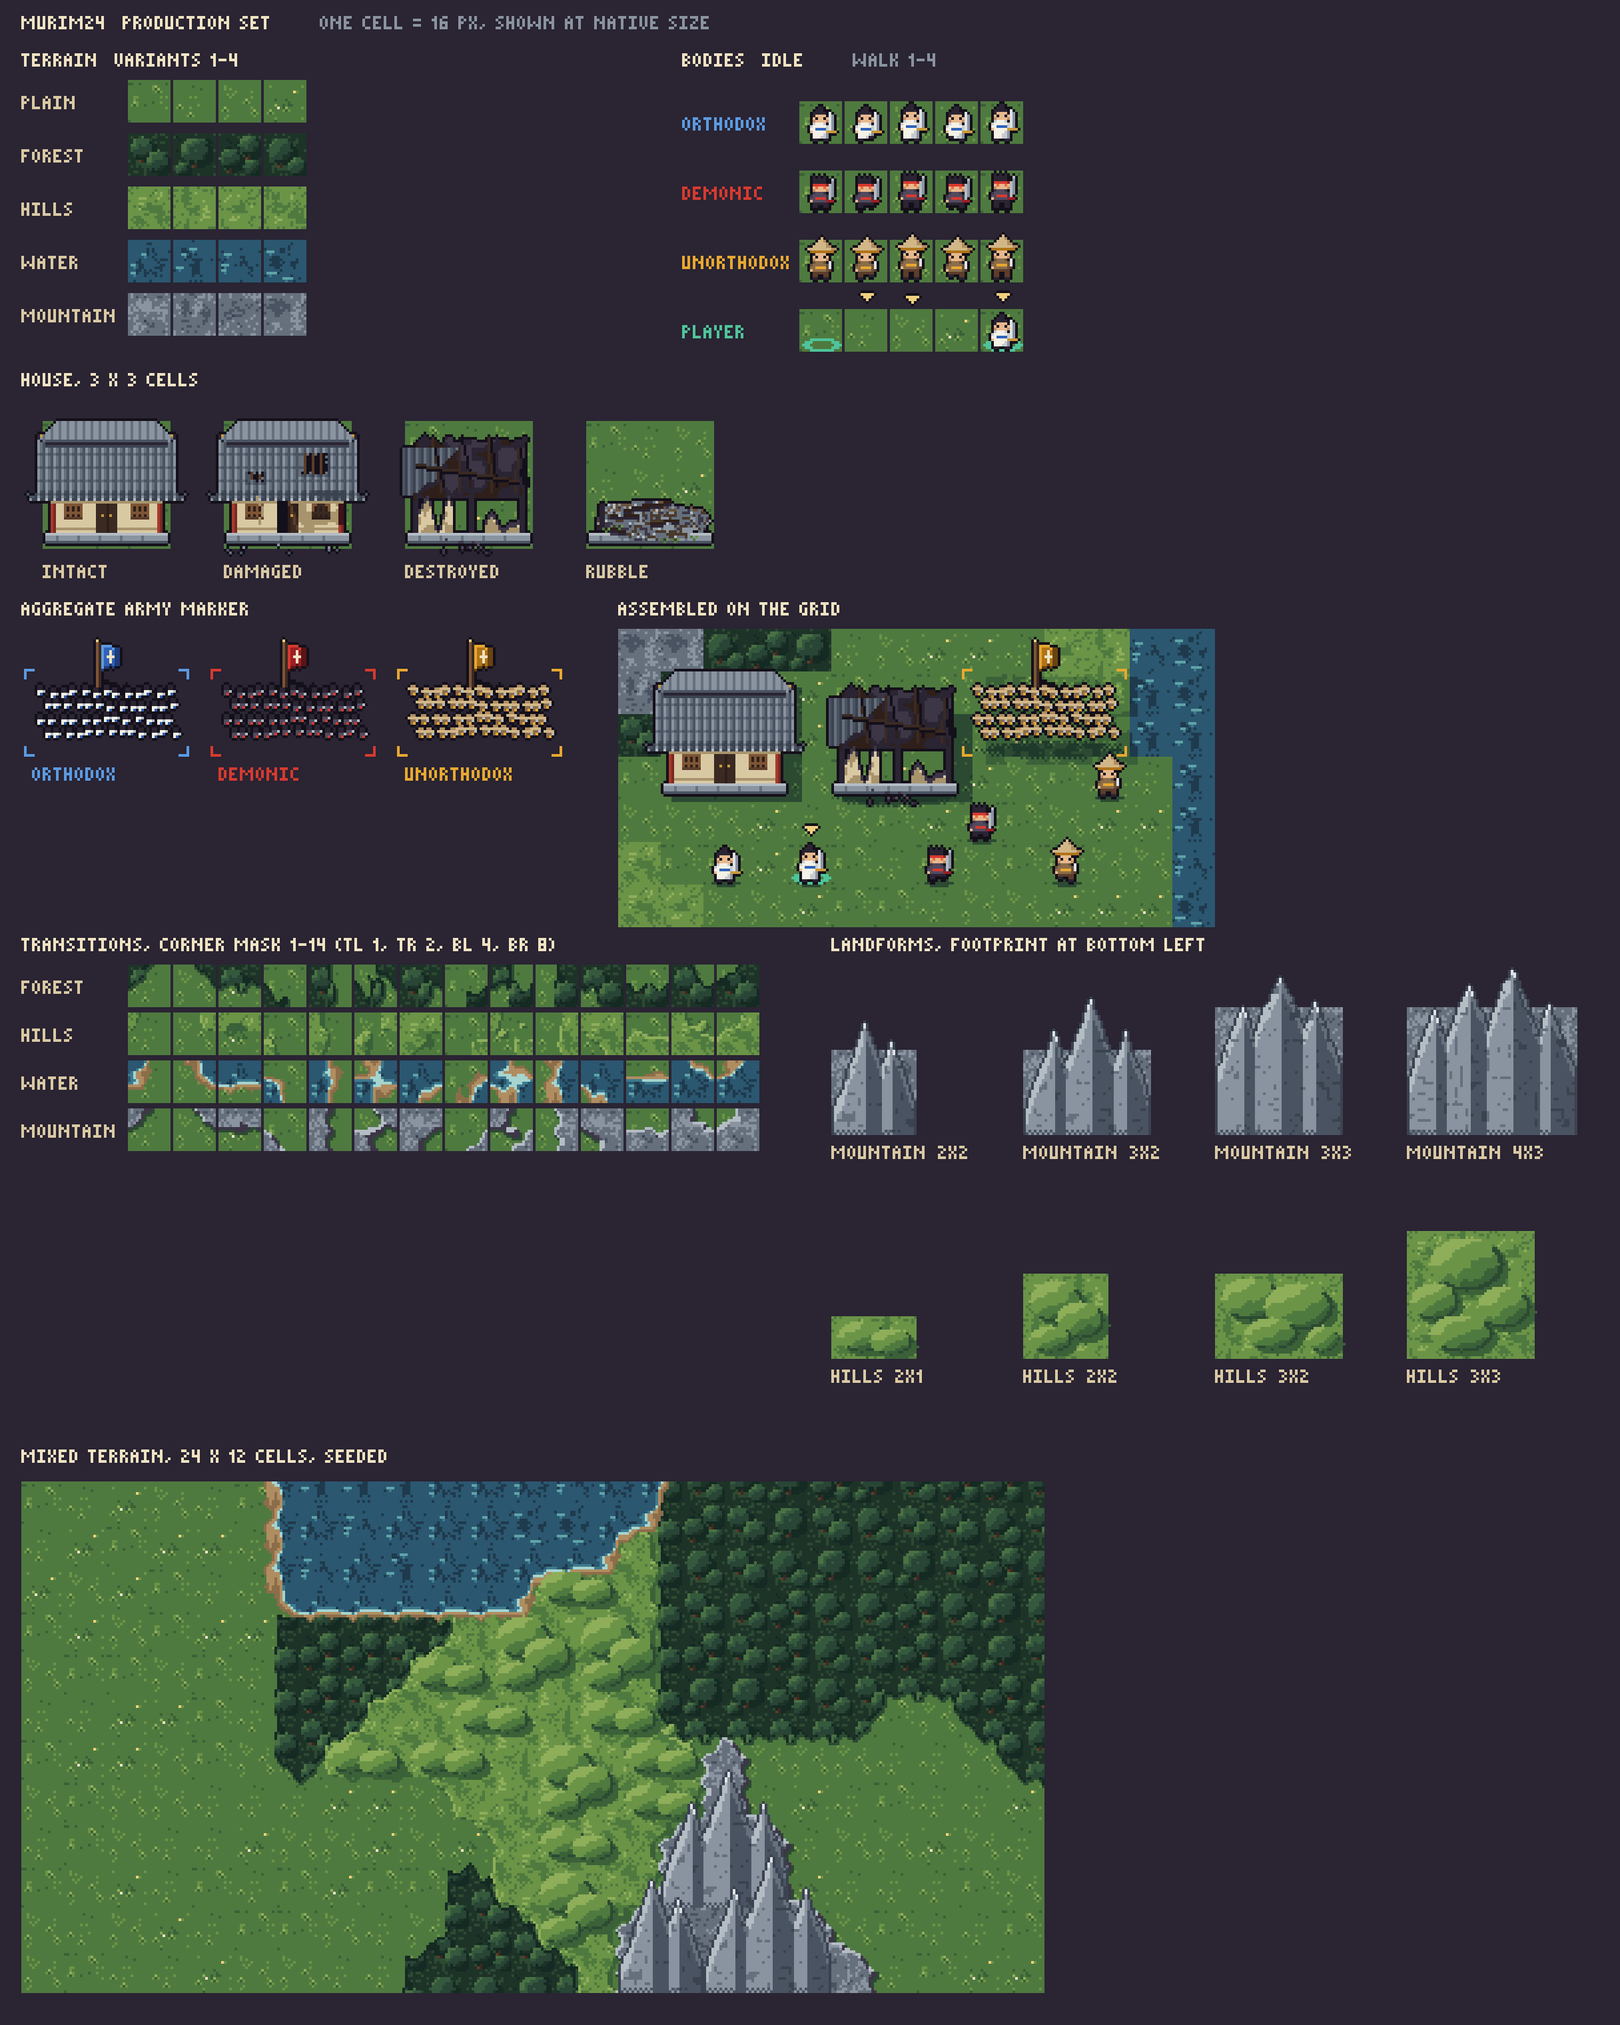
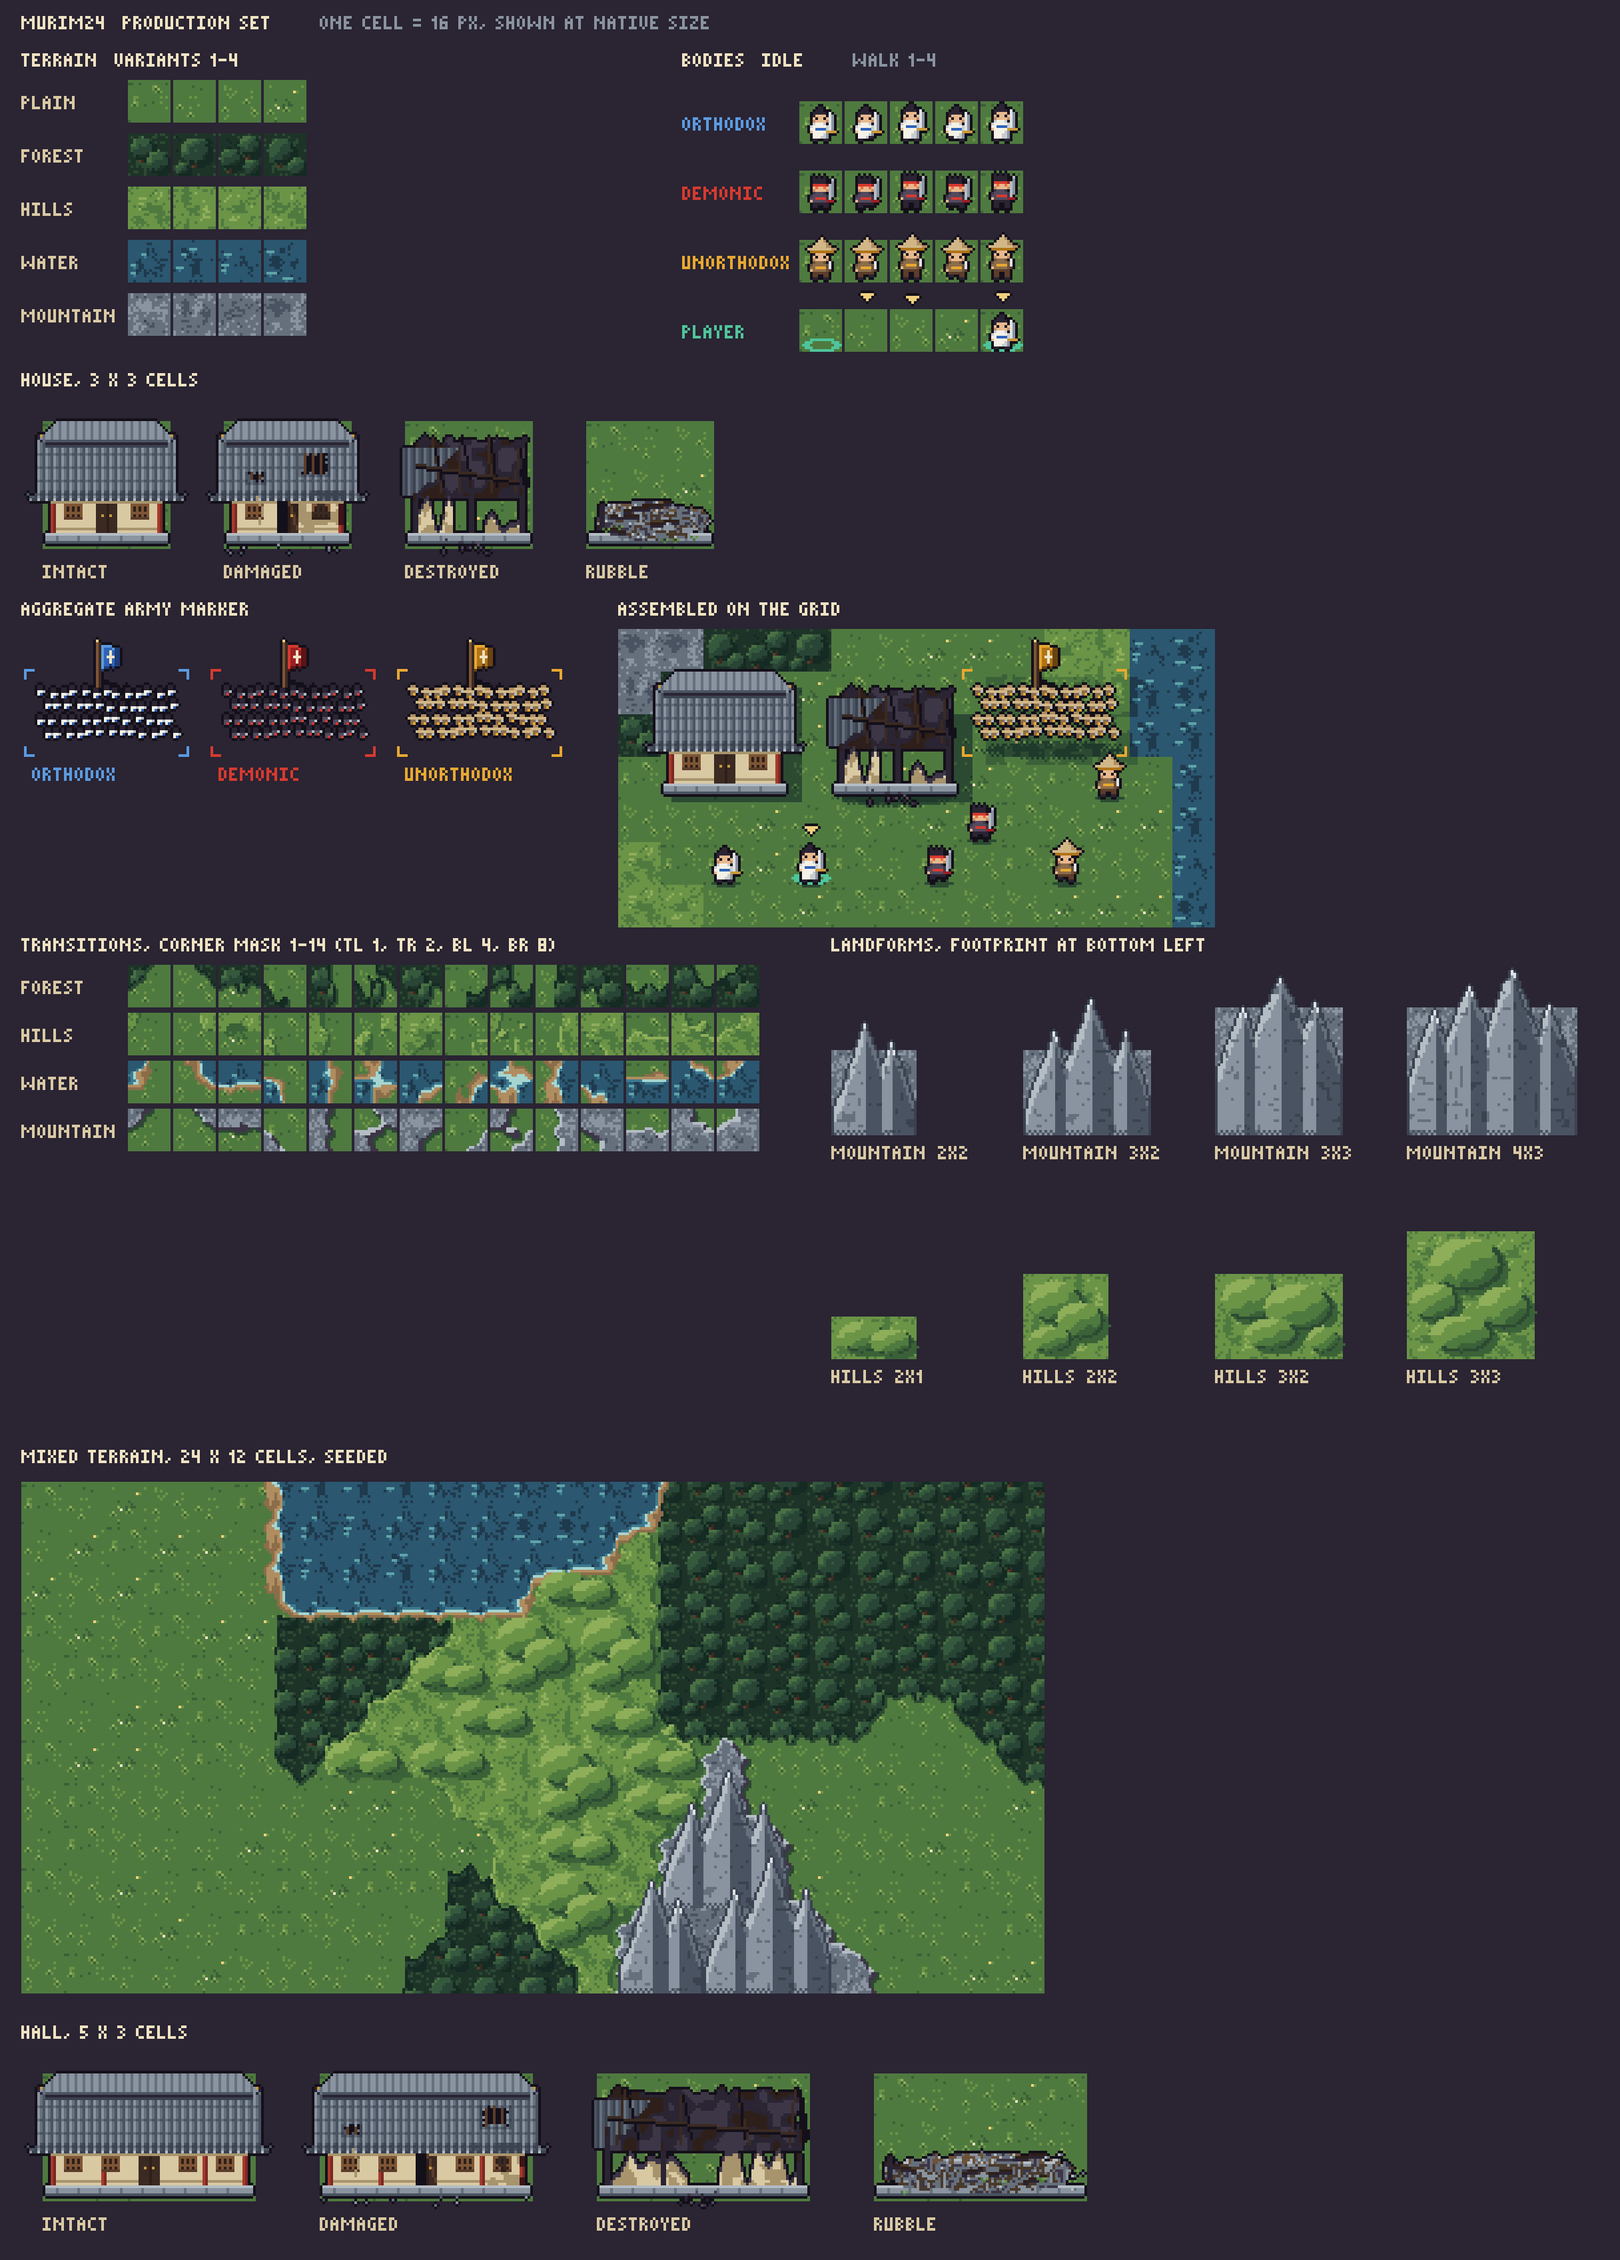
feat: draw the village hall in its four stages

diff --git a/docs/art-direction.md b/docs/art-direction.md
@@ -29,6 +29,7 @@ The production set. Each `.aseprite` file is drawn by the `.lua` script beside i
 | `art/terrain/landforms` | 64 x 64 | `mountain_2x2`, `mountain_3x2`, `mountain_3x3`, `mountain_4x3`, `hills_2x1`, `hills_2x2`, `hills_3x2`, `hills_3x3` |
 | `art/bodies/orthodox`, `demonic`, `unorthodox` | 16 x 24 | `idle` (one frame), `walk` (four frames) |
 | `art/structures/house` | 64 x 60 | `intact`, `damaged`, `destroyed`, `rubble` |
+| `art/structures/hall` | 96 x 60 | `intact`, `damaged`, `destroyed`, `rubble` |
 | `art/markers/army_marker` | 64 x 48 | `orthodox`, `demonic`, `unorthodox` |
 | `art/markers/player_marker` | 16 x 24 | `ring` (one frame), `chevron` (two frames) |
 
@@ -139,7 +140,7 @@ An individual agent and an aggregate army read differently:
 
 ## Structures and damage stages
 
-The village house covers 3 x 3 cells, in four stages that follow the core's structure stages:
+The village house covers 3 x 3 cells and the hall 5 x 3, each in four stages that follow the core's structure stages:
 
 | Stage | What shows |
 |---|---|
